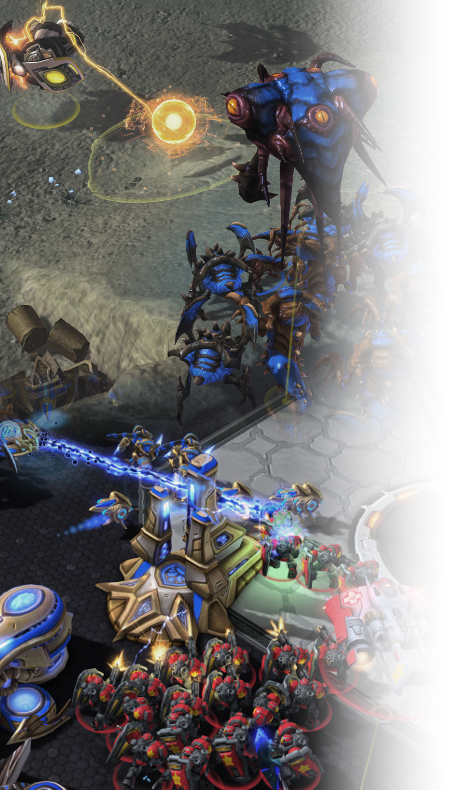
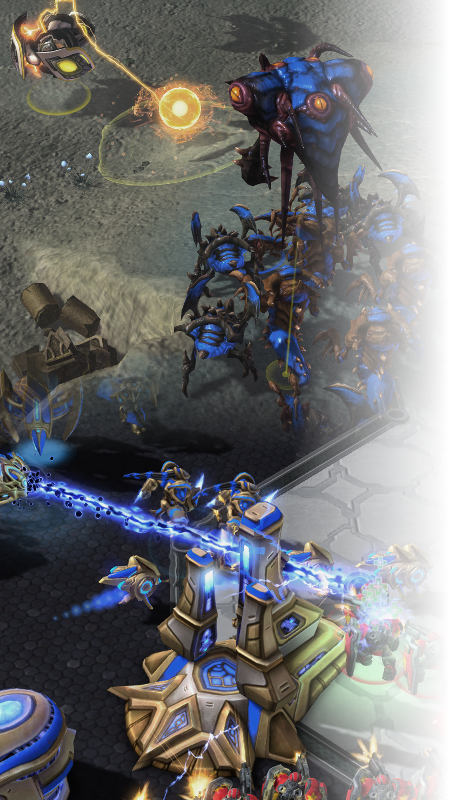
Centred video, added details boxes, modified background

diff --git a/css/main.css b/css/main.css
@@ -1,41 +1,42 @@
 header {
-	margin-bottom:30px;
+		margin-bottom:30px;
 }
 
 h1 {
-	margin-left: 20px;
-	font-family: fantasy;
+		margin-left: 20px;
+		font-family: fantasy;
 }
 
 .logo {
-	text-align: center;
-	position: relative;
+		text-align: center;
+		position: relative;
 }
 
 .menu-wrapper {
-    text-align: center;
-	background-color: #111;
-	background-image: linear-gradient(#444, #111);
-	box-shadow: 0 1px 1px #777;
-    }
+  	text-align: center;
+		font-family: fantasy;
+		font-size: 16px;
+		background-color: #111;
+		background-image: linear-gradient(#444, #111);
+}	
 	
 .menu-wrapper ul {
-	display: inline-block;
+		display: inline-block;
 }
 
 #menu, #menu ul {
-    margin: 0;
-    padding: 0;
-    list-style: none;
-	vertical-align: top;
+  	margin: 0;
+  	padding: 0;
+  	list-style: none;
+		vertical-align: top;
 }
 
 #menu {
-    border: 1px solid #222;
+  	border: 1px solid #222;
     background-color: #111;
     background-image: linear-gradient(#444, #111);
     box-shadow: 0 1px 1px #777;
-	z-index: 3;
+		z-index: 4;
 }
 
 #menu:before,
@@ -63,7 +64,6 @@ h1 {
     float: left;
     padding: 12px 30px;
     color: #999;
-    font: bold 12px;
     text-decoration: none;
     text-shadow: 0 1px 0 #000;
 }
@@ -84,7 +84,7 @@ h1 {
     position: absolute;
     top: 38px;
     left: 0;
-    z-index: 4;    
+    z-index: 5;    
     background: #444;   
     background: linear-gradient(#444, #111);
     box-shadow: 0 -1px 0 rgba(255,255,255,.3);  
@@ -101,6 +101,7 @@ h1 {
 
 #menu ul ul {
     top: 0;
+		font-size: 14px;
     left: 150px;
     margin: 0 0 0 20px;
     _margin: 0; /*IE6 only*/
@@ -110,6 +111,7 @@ h1 {
 #menu ul li {
     float: none;
     display: block;
+		font-size: 14px;
     border: 0;
     _line-height: 0; /*IE6 only*/
     box-shadow: 0 1px 0 #111, 0 2px 0 #666;
@@ -124,6 +126,7 @@ h1 {
     width: 130px;
     _height: 10px; /*IE6 only*/
     display: block;
+		font-size: 14px;
     white-space: nowrap;
     float: none;
     text-transform: none;
@@ -154,6 +157,7 @@ h1 {
     top: 50%;
     margin-top: -6px;
     border-left: 0; 
+		font-size: 14px;
     border-bottom: 6px solid transparent;
     border-top: 6px solid transparent;
     border-right: 6px solid #3b3b3b;
@@ -189,16 +193,16 @@ h1 {
 }*/
 
 .row {
-	margin-left: 0px;
-	margin-right: 0px;
+		margin-left: 0px;
+		margin-right: 0px;
 }
 
 .col-md-3 {
-	z-index: 1;
-	padding-left: 0px;
-	padding-right: 0px;
+		z-index: 1;
+		padding-left: 0px;
+		padding-right: 0px;
 }
 
 .col-md-6 {
-	z-index: 2;
+		z-index: 2;
 }

diff --git a/index.html b/index.html
@@ -71,26 +71,39 @@
       <div class="row">
          <div class="col-md-3">
             <div class="pull-left">
-               <img style="float: left;" src="img/left_side.png" />
+               <img style="float: left;" height="811" src="img/left_side.png" />
             </div>
-	    </div>
+	    	 </div>
    
-        <div class="col-md-6">
-		    <div class="row">
-				<h1>Section Title</h1>
-		    </div>
-		    <div class="row">
-			    <div class="col-md-12">
-				    <iframe width="830" height="467" src="https://www.youtube.com/embed/fnvMe0rWI2I?list=RDfnvMe0rWI2I" frameborder="0" allowfullscreen="1"></iframe>
-			    </div>
-		    </div>
-        </div>
+         <div class="col-md-6">
+					 	<div class="row">
+								<h1>Section Title</h1>
+		    	 	</div>
+		    		<div class="row" style="text-align: center;">
+				    	<iframe width="830" height="467" src="https://www.youtube.com/embed/fnvMe0rWI2I?list=RDfnvMe0rWI2I" frameborder="0" allowfullscreen="1"></iframe>
+		    		</div>
+					 	<div class="row">
+							<div class="col-md-7">
+									<h1>Video Notes</h1>
+									<p>Stuff and things</p>
+					 		</div>
+							<div class="col-md-5">
+									<h1>Downloads</h1>
+									<ul>
+										<li>Stuff</li>
+										<li>And</li>
+										<li>Things</li>
+									</ul>
+								</div>
+					 </div>
+				 </div>
     
-        <div class="col-md-3">
-			<div clas="pull-right">
-		      	<img style="float: right;" src="img/right_side.png" />
-			</div>
-	    </div>
+        	<div class="col-md-3">
+						<div clas="pull-right">
+		      		<img style="float: right;" height="811" src="img/right_side.png" />
+						</div>
+	    		</div>
+				</div>
       </div>
     </div>
 
